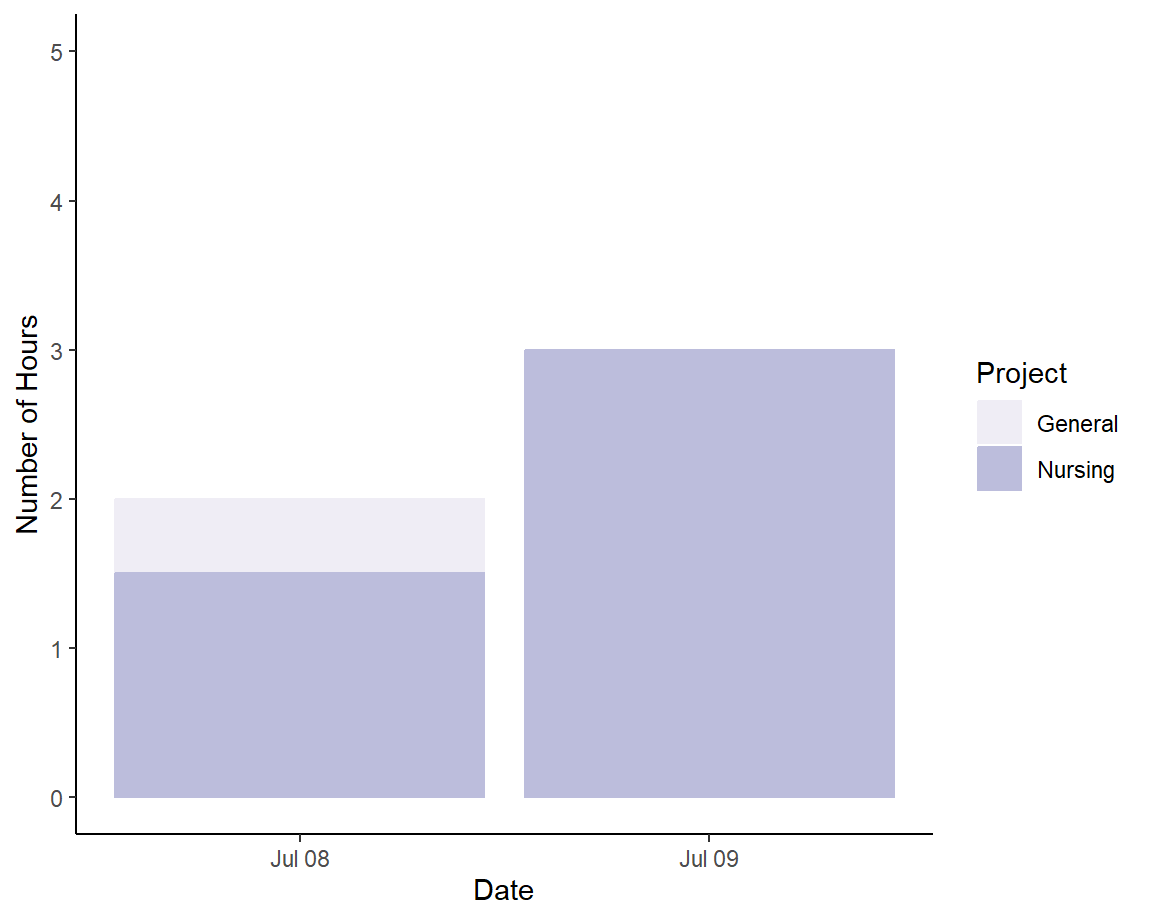
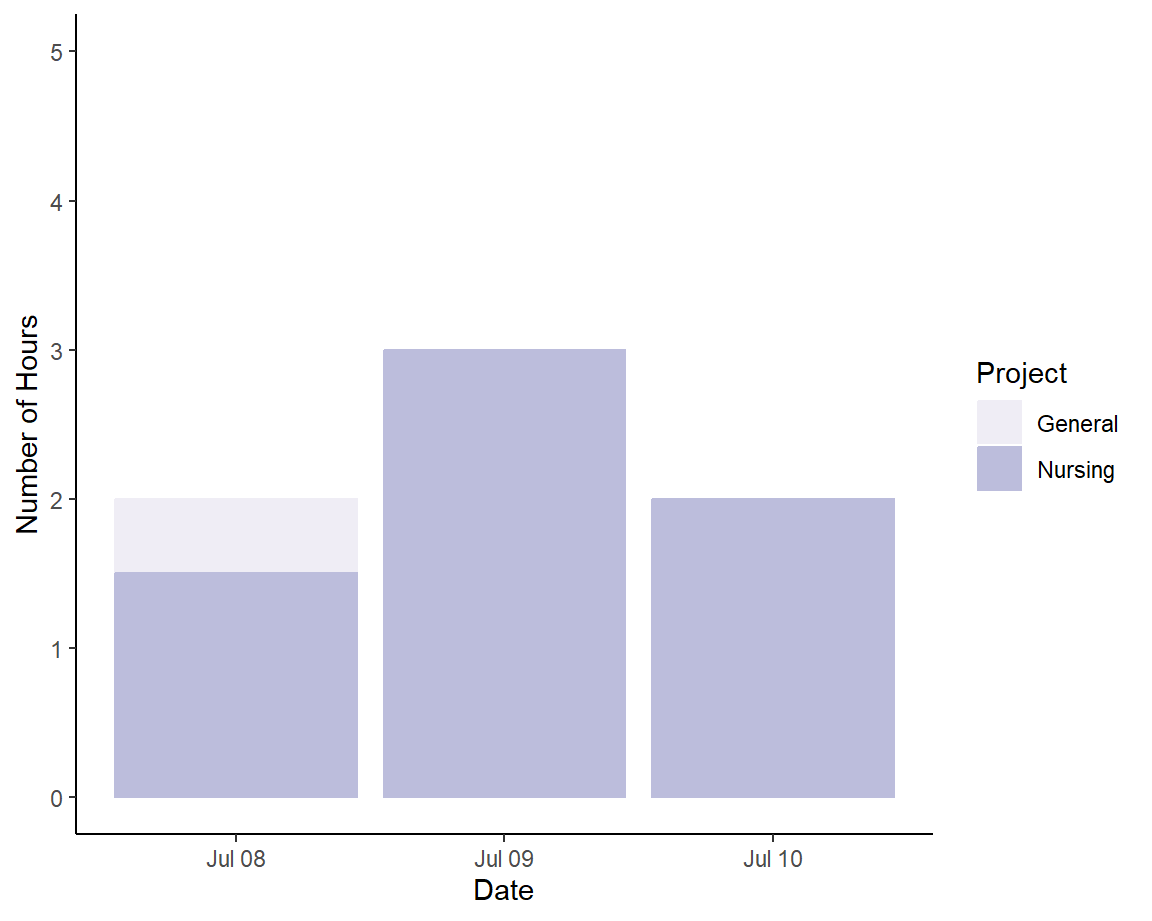
wed am

diff --git a/docs/index.html b/docs/index.html
@@ -1940,6 +1940,13 @@ parameters, reading about spasticity</td>
 nurses and differences in their educational training</td>
 <td align="right">2.0</td>
 </tr>
+<tr class="odd">
+<td align="left">2024-07-10</td>
+<td align="left">Wednesday</td>
+<td align="left">Nursing</td>
+<td align="left">Revising lay summary, drafing project description</td>
+<td align="right">2.0</td>
+</tr>
 </tbody>
 </table>
 </div>
@@ -1999,41 +2006,47 @@ class="section level3">
 </thead>
 <tbody>
 <tr class="odd">
+<td align="left">2024-07-10</td>
+<td align="left">Nursing</td>
+<td align="left">Revising lay summary, drafing project description</td>
+<td align="right">2.0</td>
+</tr>
+<tr class="even">
 <td align="left">2024-07-09</td>
 <td align="left">Nursing</td>
 <td align="left">Generating draft of Lay summary, reviewing project
 parameters, reading about spasticity</td>
 <td align="right">1.0</td>
 </tr>
-<tr class="even">
+<tr class="odd">
 <td align="left">2024-07-09</td>
 <td align="left">Nursing</td>
 <td align="left">Improving draft of Lay summary, reading about types of
 nurses and differences in their educational training</td>
 <td align="right">2.0</td>
 </tr>
-<tr class="odd">
+<tr class="even">
 <td align="left">2024-07-08</td>
 <td align="left">General</td>
 <td align="left">Improving time tracking to show ALL historical tasks
 listed specifically + Total time on each project category.</td>
 <td align="right">0.5</td>
 </tr>
-<tr class="even">
+<tr class="odd">
 <td align="left">2024-07-08</td>
 <td align="left">Nursing</td>
 <td align="left">Reading WeRPN + Lawson Grant Materials, Finding /
 downloading / organizing WeRPN references.</td>
 <td align="right">1.5</td>
 </tr>
-<tr class="odd">
+<tr class="even">
 <td align="left">2024-07-05</td>
 <td align="left">PHAC</td>
 <td align="left">Reading papers, learning about the CTAS and ICD codes,
 making notes.</td>
 <td align="right">3.0</td>
 </tr>
-<tr class="even">
+<tr class="odd">
 <td align="left">2024-07-05</td>
 <td align="left">PHAC</td>
 <td align="left">Reading and assessing field-specific standards for data
@@ -2041,83 +2054,83 @@ visualizatioin. Work on code based approach to generate APA-formatted
 tables through R.</td>
 <td align="right">2.5</td>
 </tr>
-<tr class="odd">
+<tr class="even">
 <td align="left">2024-07-03</td>
 <td align="left">PHAC</td>
 <td align="left">Reading grant, sourcing REB docs, sourcing &amp;
 organizing refs in manager, making notes.</td>
 <td align="right">3.0</td>
 </tr>
-<tr class="even">
+<tr class="odd">
 <td align="left">2024-07-02</td>
 <td align="left">Training</td>
 <td align="left">Responsible Conduct of Research - Second half</td>
 <td align="right">1.0</td>
 </tr>
-<tr class="odd">
+<tr class="even">
 <td align="left">2024-07-02</td>
 <td align="left">General</td>
 <td align="left">Upload Certificates to ReDA, emails</td>
 <td align="right">0.5</td>
 </tr>
-<tr class="even">
+<tr class="odd">
 <td align="left">2024-06-29</td>
 <td align="left">Training</td>
 <td align="left">Responsible Conduct of Research - First half of
 module</td>
 <td align="right">1.0</td>
 </tr>
-<tr class="odd">
+<tr class="even">
 <td align="left">2024-06-28</td>
 <td align="left">Training</td>
 <td align="left">Canada GCP - Stage 1 - Basic</td>
 <td align="right">2.0</td>
 </tr>
-<tr class="even">
+<tr class="odd">
 <td align="left">2024-06-28</td>
 <td align="left">Training</td>
 <td align="left">Health Canada Division 5 - Drugs For Clinical Trials
 Involving Human Subjects</td>
 <td align="right">1.0</td>
 </tr>
-<tr class="odd">
+<tr class="even">
 <td align="left">2024-06-27</td>
 <td align="left">General</td>
 <td align="left">Emails, Setting up OneDrive syncing to PC (2FA
 etc.)</td>
 <td align="right">0.5</td>
 </tr>
-<tr class="even">
+<tr class="odd">
 <td align="left">2024-06-26</td>
 <td align="left">Training</td>
 <td align="left">TCPS Modules A1 - A9 (Certificate provided)</td>
 <td align="right">1.0</td>
 </tr>
-<tr class="odd">
+<tr class="even">
 <td align="left">2024-06-25</td>
 <td align="left">General</td>
 <td align="left">Jennet &amp; Amanda - Meeting to touch base</td>
 <td align="right">1.0</td>
 </tr>
-<tr class="even">
+<tr class="odd">
 <td align="left">2024-06-25</td>
 <td align="left">General</td>
 <td align="left">Setup wuo Staff Account / HR Setup / Payroll Setup</td>
 <td align="right">1.0</td>
 </tr>
-<tr class="odd">
+<tr class="even">
 <td align="left">2024-06-25</td>
 <td align="left">General</td>
 <td align="left">Build Time Tracking Tool</td>
 <td align="right">1.0</td>
 </tr>
-<tr class="even">
+<tr class="odd">
 <td align="left">2024-06-25</td>
 <td align="left">Training</td>
 <td align="left">Lawson SOP training module</td>
 <td align="right">1.0</td>
 </tr>
-<tr class="odd">
+<tr class="even">
 <td align="left">2024-06-25</td>
 <td align="left">Planning</td>
 <td align="left">Writing out meeting notes / plans</td>
